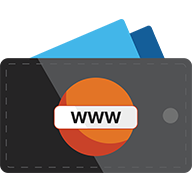
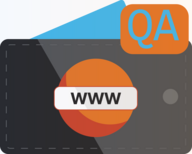
brand changes for qa deployment

diff --git a/index.html b/index.html
@@ -9,19 +9,19 @@
   <link rel="apple-touch-icon" href="/wallet_192.png">
 	<link rel="manifest" href="/manifest.json" />
 
-	<title>wwWallet</title>
-	<meta name="description" content="wwWallet is a secure web wallet for storing and managing verifiable credentials.">
+	<title>wwWallet QA</title>
+	<meta name="description" content="wwWallet QA is a secure web wallet for storing and managing verifiable credentials.">
 	<meta name="keywords"
 		content="wwWallet, web wallet, wallet, secure storage, verifiable credentials, digital credentials, credentials management">
-	<meta property="og:title" content="wwWallet: Secure Storage and Management of Verifiable Credentials">
+	<meta property="og:title" content="wwWallet QA: Secure Storage and Management of Verifiable Credentials">
 	<meta property="og:description"
-		content="wwWallet is a secure web wallet for storing and managing verifiable credentials.">
+		content="wwWallet QA is a secure web wallet for storing and managing verifiable credentials.">
 	<meta property="og:image" content="https://demo.wwwallet.org/wallet_512.png">
 	<meta property="og:url" content="https://demo.wwwallet.org">
 	<meta property="og:type" content="website">
-	<meta name="twitter:title" content="wwWallet: Secure Storage and Management of Verifiable Credentials">
+	<meta name="twitter:title" content="wwWallet QA: Secure Storage and Management of Verifiable Credentials">
 	<meta name="twitter:description"
-		content="wwWallet is a secure web wallet for storing and managing verifiable credentials.">
+		content="wwWallet QA is a secure web wallet for storing and managing verifiable credentials.">
 	<meta name="twitter:image" content="https://demo.wwwallet.org/wallet_512.png">
 	<meta name="twitter:card" content="summary_large_image">
 </head>
